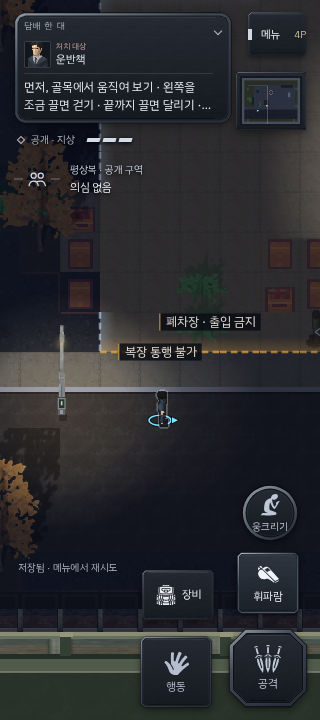
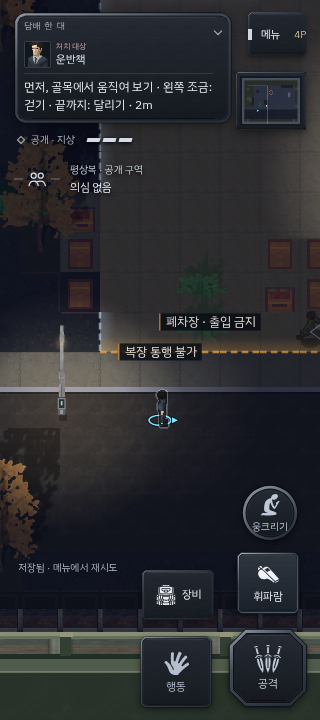
Hand early takedowns to recovery guidance and shorten small-screen movement copy

Changed region(s): [[0.0625, 0.0917, 0.6562, 0.1528], [0.9688, 0.4583, 1.0, 0.4889]]

diff --git a/public/assets/acf421711248f0ebcd39.js b/public/assets/acf421711248f0ebcd39.js
@@ -7504,13 +7504,14 @@ function initBeginnerEntry(){
 function updateBeginnerEntry(){
   const b=S.beginnerEntry;if(!b||b.step>=2)return;
   const P=S.player,g=npc('runner');
-  if(g&&targetEliminated(g)){b.step=2;return;}
+  if(g&&(targetEliminated(g)||g.unconscious)){b.step=2;S.cpWant=true;return;}
   if(b.step===0&&P.moving&&dist(P.x,P.y,b.x,b.y)>=40)b.step=1;
   if(b.step===1&&P.mode==='sneak'){b.step=2;S.cpWant=true;}
 }
 function beginnerEntryGoal(){
   const b=S.beginnerEntry;if(!b||b.step>=2||!beginnerEntryNeeded())return null;
-  return b.step===0?{x:b.x+64,y:b.y,fl:0,text:'먼저, 골목에서 움직여 보기',where:isTouch?(input.walkLock?'왼쪽을 끌어 걷기 · 달리기는 장비에서 설정':'왼쪽을 조금 끌면 걷기 · 끝까지 끌면 달리기'):tutText('{이동} 오른쪽 표시까지 걷기'),moveCue:true}:
+  const g=npc('runner');if(g&&(targetEliminated(g)||g.unconscious))return null;
+  return b.step===0?{x:b.x+64,y:b.y,fl:0,text:'먼저, 골목에서 움직여 보기',where:isTouch?(input.walkLock?'걷기 고정 중 · 달리기는 장비에서':'왼쪽 조금: 걷기 · 끝까지: 달리기'):tutText('{이동} 오른쪽 표시까지 걷기'),moveCue:true}:
     {text:'몸을 낮춰 조용히 접근하기',where:tutText('{살금} 몸을 낮추기 · 발소리가 작아진다')};
 }
 

diff --git a/src/js/44_opening_contract.js b/src/js/44_opening_contract.js
@@ -11,13 +11,14 @@ function initBeginnerEntry(){
 function updateBeginnerEntry(){
   const b=S.beginnerEntry;if(!b||b.step>=2)return;
   const P=S.player,g=npc('runner');
-  if(g&&targetEliminated(g)){b.step=2;return;}
+  if(g&&(targetEliminated(g)||g.unconscious)){b.step=2;S.cpWant=true;return;}
   if(b.step===0&&P.moving&&dist(P.x,P.y,b.x,b.y)>=40)b.step=1;
   if(b.step===1&&P.mode==='sneak'){b.step=2;S.cpWant=true;}
 }
 function beginnerEntryGoal(){
   const b=S.beginnerEntry;if(!b||b.step>=2||!beginnerEntryNeeded())return null;
-  return b.step===0?{x:b.x+64,y:b.y,fl:0,text:'먼저, 골목에서 움직여 보기',where:isTouch?(input.walkLock?'왼쪽을 끌어 걷기 · 달리기는 장비에서 설정':'왼쪽을 조금 끌면 걷기 · 끝까지 끌면 달리기'):tutText('{이동} 오른쪽 표시까지 걷기'),moveCue:true}:
+  const g=npc('runner');if(g&&(targetEliminated(g)||g.unconscious))return null;
+  return b.step===0?{x:b.x+64,y:b.y,fl:0,text:'먼저, 골목에서 움직여 보기',where:isTouch?(input.walkLock?'걷기 고정 중 · 달리기는 장비에서':'왼쪽 조금: 걷기 · 끝까지: 달리기'):tutText('{이동} 오른쪽 표시까지 걷기'),moveCue:true}:
     {text:'몸을 낮춰 조용히 접근하기',where:tutText('{살금} 몸을 낮추기 · 발소리가 작아진다')};
 }
 

diff --git a/public/index.html b/public/index.html
@@ -1665,6 +1665,6 @@ body:has(#pause:not([hidden])) #hud { visibility:hidden; }
 <script defer src="./assets/29532ab01280cb2abd25.js" onload="window.__boot.loaded()" onerror="window.__boot.fail('스크립트 다운로드 실패')"></script>
 <script defer src="./assets/cb890c52b22abf4cb220.js" onload="window.__boot.loaded()" onerror="window.__boot.fail('스크립트 다운로드 실패')"></script>
 <script defer src="./assets/fee38bf62436e2af0d1d.js" onload="window.__boot.loaded()" onerror="window.__boot.fail('스크립트 다운로드 실패')"></script>
-<script defer src="./assets/3ff15e63599c3c400019.js" onload="window.__boot.loaded()" onerror="window.__boot.fail('스크립트 다운로드 실패')"></script>
+<script defer src="./assets/acf421711248f0ebcd39.js" onload="window.__boot.loaded()" onerror="window.__boot.fail('스크립트 다운로드 실패')"></script>
 </body>
 </html>

diff --git a/tests/rev/t_beginner_clarity.py b/tests/rev/t_beginner_clarity.py
@@ -21,6 +21,7 @@ async def main():
     G.saveCheckpoint();ok(G.loadCheckpoint()&&G.S.beginnerEntry.step===2,'checkpoint repeats onboarding');out.push('fresh move/crouch inside real mission, no skill purchase, checkpoint continuation');
     S=fresh('p0');P=S.player;delete S.beginnerEntry;S.t=10;G.initBeginnerEntry();ok(S.beginnerEntry.step===2,'legacy checkpoint sent back to start');
     localStorage.setItem('yahaeng.ch',JSON.stringify({p0:{_clear:true}}));S=fresh('p0');ok(!S.beginnerEntry,'returning player forced to repeat');localStorage.removeItem('yahaeng.ch');out.push('legacy and completed saves bypass introductory controls');
+    S=fresh('p0');P=S.player;let early=S.guards[0];Object.assign(P,{x:early.x-28,y:early.y,mode:'sneak'});S.koNext=true;G.killGuard(early);G.checkObjective();ok(!S.exitOpen&&!G.beginnerEntryGoal()&&G.nextGoal().where.includes('기절은 미완료'),'early nonlethal action trapped in movement guide');G.updateBeginnerEntry();ok(S.beginnerEntry.step===2,'early takedown repeats controls');out.push('an early knockout yields to real unfinished-target recovery without granting victory');
     S=fresh('p0');P=S.player;const g=S.guards.find(g=>g.target);S.guards=[g];Object.assign(P,{x:g.x-80,y:g.y,a:0,hidden:false,cover:null,mode:'sneak'});g.a=0;
     let a=G.attackAction();ok(a.k==='none'&&a.stalk,'out-of-reach scene missing');G.updateHUD(true);ok(G.actVerb(a)==='더 가까이'&&!document.getElementById('btnAct').classList.contains('ready'),'inactive attack promises a kill');
     G.actAttack();ok(S.toasts.some(t=>t.text.includes('아직 손이 닿지'))&&g.state!=='DEAD','invalid attack silently ignored or killed remotely');

diff --git a/docs/beginner-v197/README.md b/docs/beginner-v197/README.md
@@ -1,6 +1,6 @@
 # First mission clarity — v197
 
-A fresh quick start now teaches one action at a time inside the real first mission: walk, crouch, approach the marked target, assassinate and leave. The guide does not lock attacks, victory or alternative routes. Existing clears and older in-progress checkpoints continue without repeating these controls. Completed control steps are saved through the normal safe-checkpoint rules.
+A fresh quick start now teaches one action at a time inside the real first mission: walk, crouch, approach the marked target, assassinate and leave. The guide does not lock attacks, victory or alternative routes. Existing clears and older in-progress checkpoints continue without repeating these controls. An early knockout yields immediately to unfinished-target recovery; it cannot grant victory or trap the player in movement instructions. Completed control steps are saved through the normal safe-checkpoint rules.
 
 The opening briefing keeps the mission and departure button prominent. The full skill tree remains available through the existing menu; the first result invites the player to spend their four starting points. No skill is recommended, purchased or granted automatically.
 
@@ -10,7 +10,7 @@ Search feedback persists after a toast disappears and distinguishes a body repor
 
 ## Verification
 
-- Controlled fixtures: seven guidance/readiness/selection/cause groups at 1280×800, 390×844, 320×720 and 844×390. Separate existing fixtures exercise an actual AI body inspection/report and rendered KO/dead-body labels.
+- Controlled fixtures: eight guidance/readiness/selection/cause groups at 1280×800, 390×844, 320×720 and 844×390. Separate existing fixtures exercise an actual AI body inspection/report and rendered KO/dead-body labels.
 - Native first-entry clears on PC and emulated touch: ordinary RAF, fresh saves, unseeded active actors, native keyboard/CDP joystick. Both completed a real assassination, carrying, concealment and escape with 3 HP, zero personal detections and no purchased skills.
 - Native first-night sequence on both devices: p0 → p1 → p2, real uniform passage and timed theft, deliberate CCTV recording mistake, automatic safe retry, rear cable disconnection, paper recovery and escape. No actor, health, clock, inventory or skill overrides.
 - Fresh first-control screenshots and visible layout checks at all four viewports. No overlapping visible action buttons. The completed first-mission journeys remain separate from these short layout checks.
